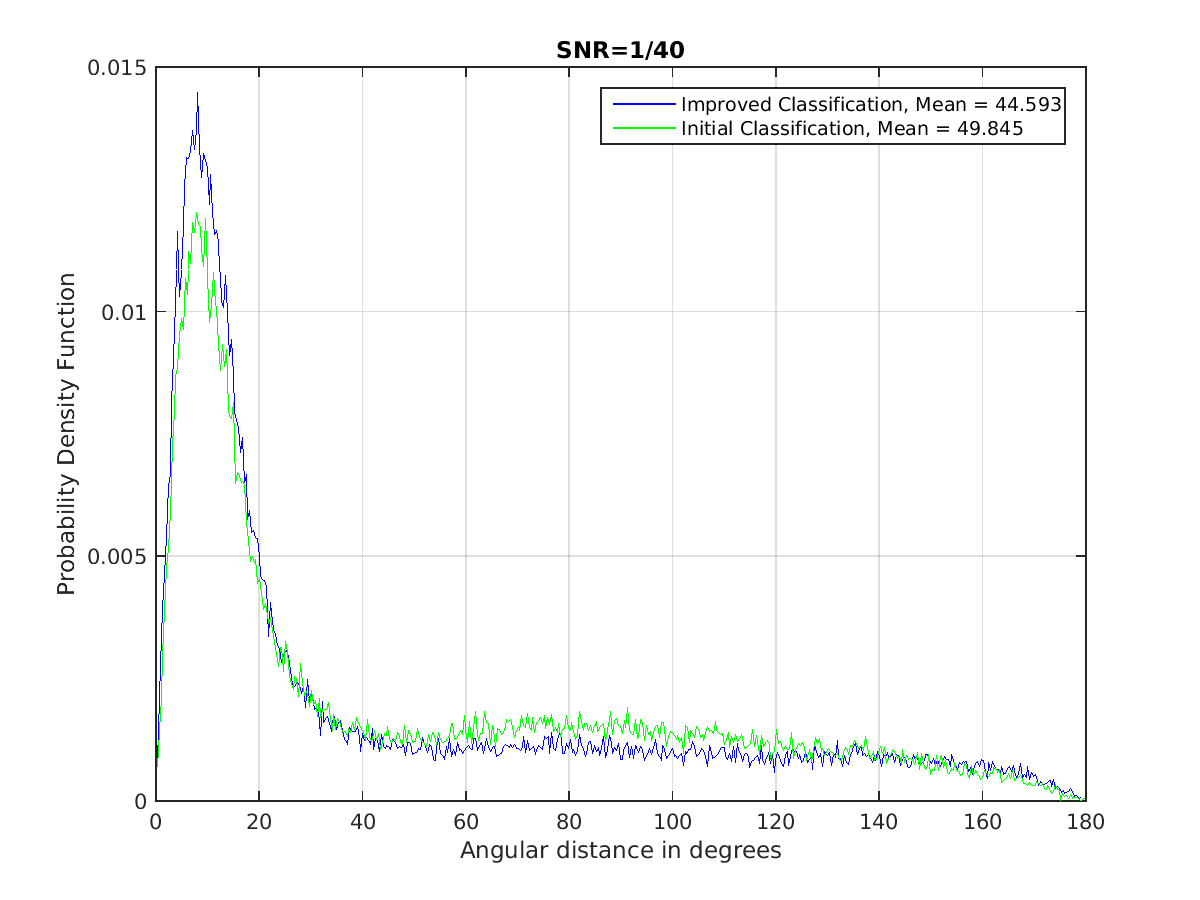
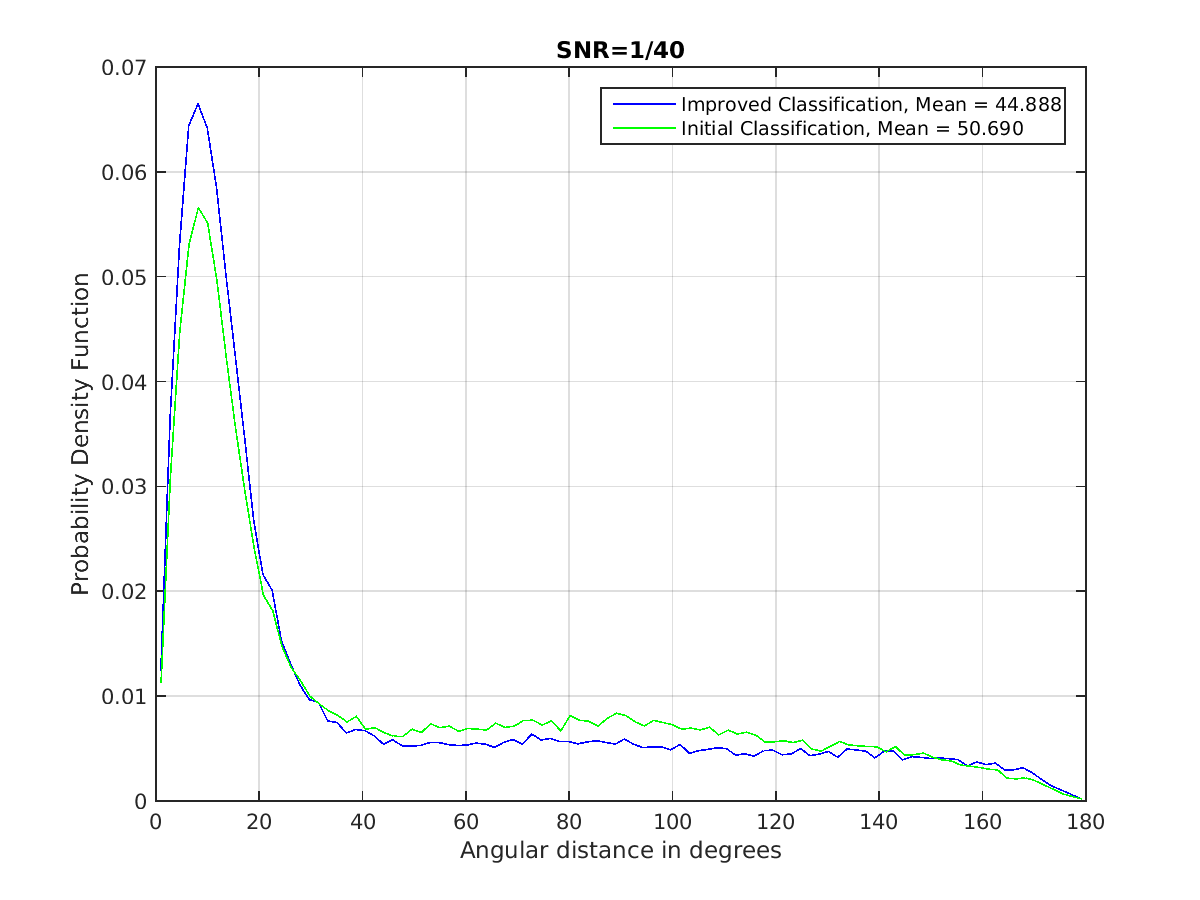
font size 1/40 fig, nbins

diff --git a/paperfig_hist.m b/paperfig_hist.m
@@ -198,8 +198,9 @@ ang_df=real(acos((d_f))*180/pi);
 
 figure(1);
 clf;
-[counts1, binCenters1] = hist(ang_dm, 500);
-[counts2, binCenters2] = hist(ang_df, 500);
+set(gca,'fontsize',18)
+[counts1, binCenters1] = hist(ang_dm, 100);
+[counts2, binCenters2] = hist(ang_df, 100);
 plot(binCenters1, counts1/sum(counts1), 'b-');
 hold on;
 plot(binCenters2, counts2/sum(counts2), 'g-');
